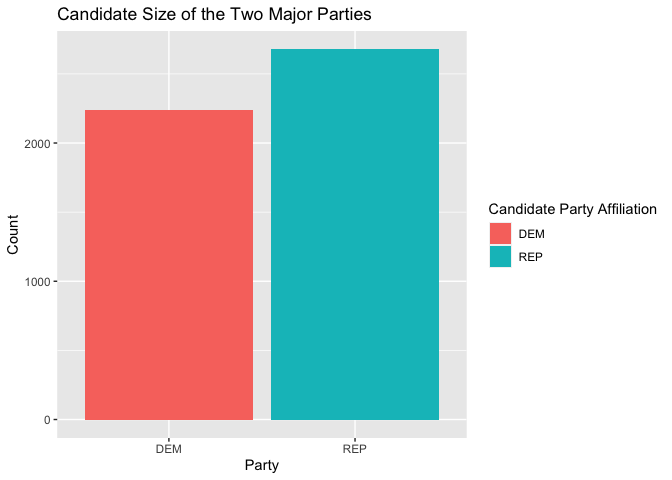
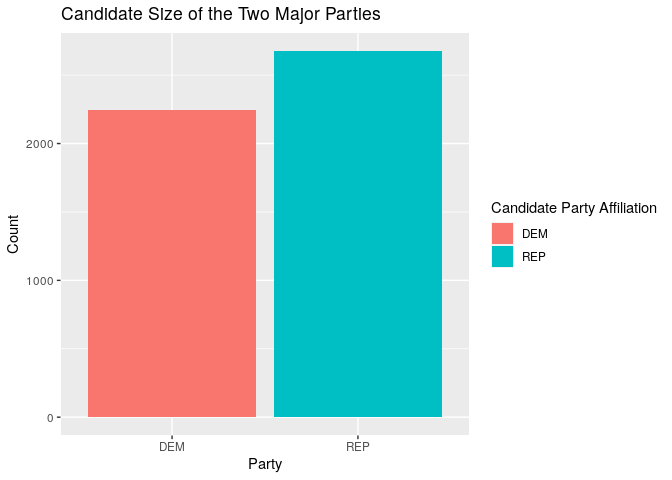
renamed README plot; #16

diff --git a/README.md b/README.md
@@ -13,12 +13,13 @@ status](https://r-pkg.org/badges/version/fec16)](https://CRAN.R-project.org/pack
 Status](https://travis-ci.org/baumer-lab/fec16.svg?branch=master)](https://travis-ci.org/baumer-lab/fec16)
 <!-- badges: end -->
 
-**fec16** contains data from the Federal Election Commission (FEC)
-website pertaining to candidates, committees, results, contributions
-from committees and individuals, and other financial data for the United
-States 2015-2016 election cycle. Additionally, for the datasets that are
-included as samples, the package includes functions that import the full
-versions.
+**fec16** contains data from the [Federal Election Commission
+(FEC)](https://www.fec.gov/) website pertaining to candidates,
+committees, results, contributions from committees and individuals, and
+other financial [data for the United States 2015-2016 election
+cycle](https://www.fec.gov/data/browse-data/?tab=bulk-data).
+Additionally, for the datasets that are included as samples, the package
+includes functions that import the full versions.
 
 ## Installation
 
@@ -68,10 +69,10 @@ calling each function is given for reference. All functions have an
 argument `n_max` which defaults to the entire dataset but the user can
 specify the max length of the dataset to be loaded via this argument.
 
-  - `read_all_individuals()` ~ 1.45GB
-  - `read_all_contributions()` ~ 15.4MB
-  - `read_all_expenditures()` ~ 52.1MB
-  - `read_all_transactions()` ~ 79.2MB
+  - `read_all_individuals()` \~ 1.45GB
+  - `read_all_contributions()` \~ 15.4MB
+  - `read_all_expenditures()` \~ 52.1MB
+  - `read_all_transactions()` \~ 79.2MB
 
 **Note:** When these functions are run in the console, it is helpful to
 know the progress of the download taking place but running these
@@ -111,13 +112,14 @@ We can visualize the above data:
 library(ggplot2)
 
 ggplot(data, aes(x = cand_pty_affiliation, y = size, fill = cand_pty_affiliation)) +
-  geom_col(position = "dodge") +
+  geom_col() +
   labs(
-    title = "Candidate Size of the Two Major Parties",
-    x = "Party", y = "Count", fill = "Candidate Party Affiliation")
+    title = "Number of Candidates Affiliated with the Two Major Parties",
+    x = "Party", y = "Count", fill = "Candidate Party Affiliation"
+  )
 ```
 
-<img src="man/figures/README-unnamed-chunk-5-1.png" width="100%" />
+<img src="man/figures/README-party-plot-1.png" width="100%" />
 
 ## Contributors
 
